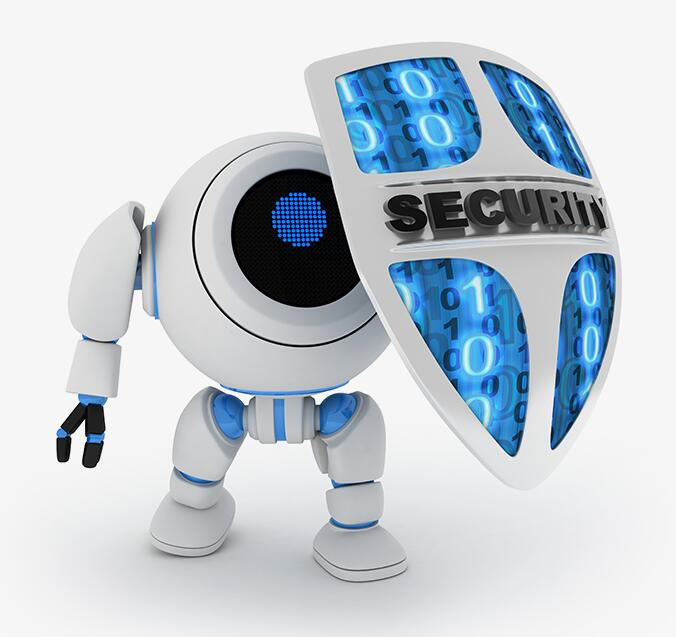
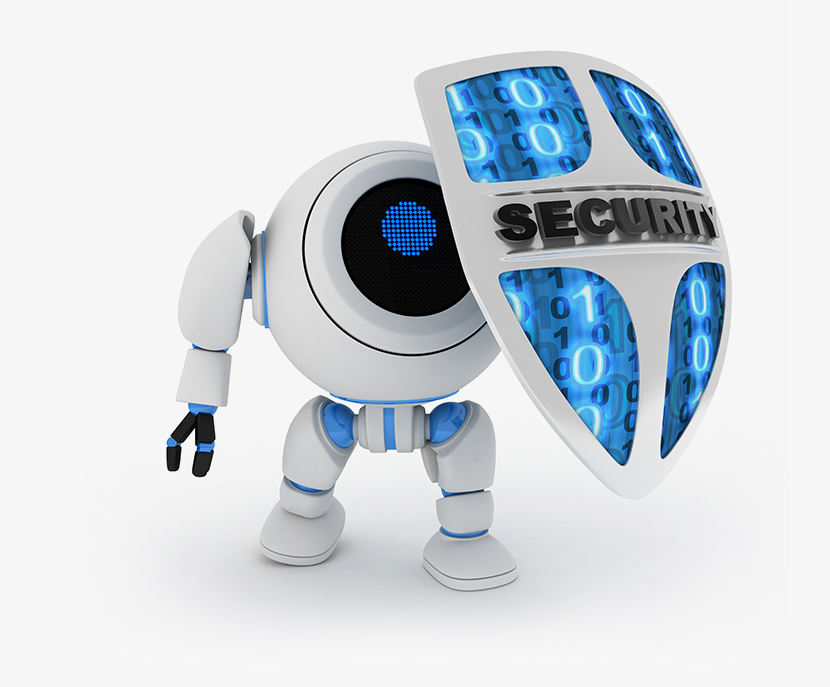
优化一些图片

diff --git a/htmls/index.html b/htmls/index.html
@@ -236,10 +236,13 @@
             <div class="h-in-banner">
                 <ul class="my-slideshow">
                     <li>
-                        <img src="../assets/images/index/banner/banner1.gif" width="100%" height="100%" alt="">
+                        <img src="../assets/images/index/banner/banner1.png" width="100%" height="100%" alt="">
                     </li>
                     <li>
-                        <img src="../assets/images/index/banner/banner2.gif" width="100%" height="100%" alt="">
+                        <img src="../assets/images/index/banner/banner2.png" width="100%" height="100%" alt="">
+                    </li>
+                    <li>
+                        <img src="../assets/images/index/banner/banner3.png" width="100%" height="100%" alt="">
                     </li>
                 </ul>
             </div>

diff --git a/htmls/security.html b/htmls/security.html
@@ -221,7 +221,7 @@
                         </div>
                     </li>
                     <li class="fr">
-                        <a class="hd-nav-a" href="../index.html">
+                        <a class="hd-nav-a" href="index.html">
                             <span>首页</span>
                         </a>
                     </li>
@@ -240,9 +240,6 @@
                     </li>
                     <li>
                         <img src="../assets/images/security/banner/banner2.jpg" width="100%" height="100%" alt="">
-                    </li>
-                    <li>
-                        <img src="../assets/images/security/banner/banner3.jpg" width="100%" height="100%" alt="">
                     </li>
                 </ul>
             </div>

diff --git a/htmls/website_con.html b/htmls/website_con.html
@@ -221,7 +221,7 @@
                         </div>
                     </li>
                     <li class="fr">
-                        <a class="hd-nav-a" href="../index.html">
+                        <a class="hd-nav-a" href="index.html">
                             <span>首页</span>
                         </a>
                     </li>
@@ -240,9 +240,6 @@
                     </li>
                     <li>
                         <img src="../assets/images/security/banner/banner2.jpg" width="100%" height="100%" alt="">
-                    </li>
-                    <li>
-                        <img src="../assets/images/security/banner/banner3.jpg" width="100%" height="100%" alt="">
                     </li>
                 </ul>
             </div>

diff --git a/htmls/about_us.html b/htmls/about_us.html
@@ -220,7 +220,7 @@
                             </div>
                         </li>
                         <li class="fr">
-                            <a class="hd-nav-a" href="../index.html">
+                            <a class="hd-nav-a" href="index.html">
                                 <span>首页</span>
                             </a>
                         </li>

diff --git a/htmls/latest_case.html b/htmls/latest_case.html
@@ -220,7 +220,7 @@
                         </div>
                     </li>
                     <li class="fr">
-                        <a class="hd-nav-a" href="../index.html">
+                        <a class="hd-nav-a" href="index.html">
                             <span>首页</span>
                         </a>
                     </li>
